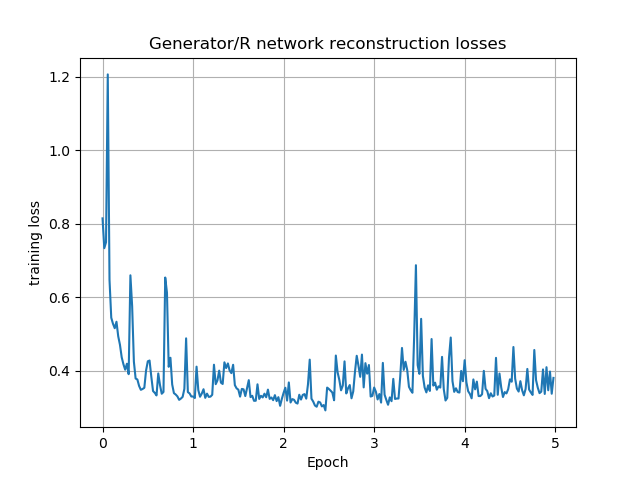
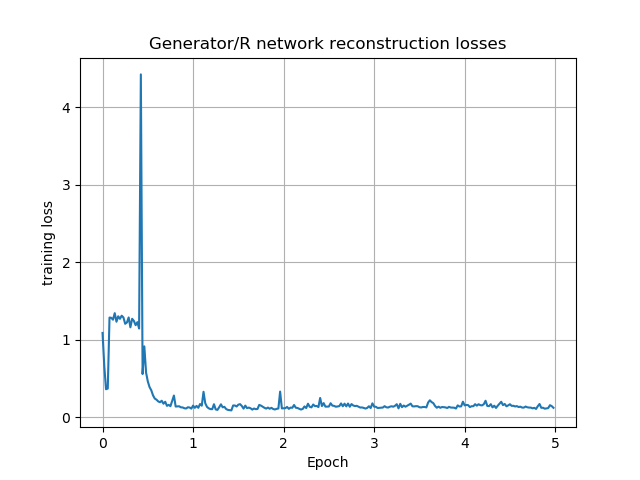
add licence, train target- clean image

diff --git a/models.py b/models.py
@@ -239,9 +239,11 @@ class ALOCC_Model():
                 if self.dataset_name == 'mnist':
                     batch = self.data[idx * batch_size:(idx + 1) * batch_size]
                     batch_noise = sample_w_noise[idx * batch_size:(idx + 1) * batch_size]
+                    batch_clean = self.data[idx * batch_size:(idx + 1) * batch_size]
                 # Turn batch images data to float32 type.
                 batch_images = np.array(batch).astype(np.float32)
                 batch_noise_images = np.array(batch_noise).astype(np.float32)
+                batch_clean_images = np.array(batch_clean).astype(np.float32)
                 if self.dataset_name == 'mnist':
                     batch_fake_images = self.generator.predict(batch_noise_images)
                     # Update D network, minimize real images inputs->D-> ones, noisy z->R->D->zeros loss.
@@ -249,8 +251,8 @@ class ALOCC_Model():
                     d_loss_fake = self.discriminator.train_on_batch(batch_fake_images, zeros)
 
                     # Update R network twice, minimize noisy z->R->D->ones and reconstruction loss.
-                    self.adversarial_model.train_on_batch(batch_noise_images, [batch_noise_images, ones])
-                    g_loss = self.adversarial_model.train_on_batch(batch_noise_images, [batch_noise_images, ones])    
+                    self.adversarial_model.train_on_batch(batch_noise_images, [batch_clean_images, ones])
+                    g_loss = self.adversarial_model.train_on_batch(batch_noise_images, [batch_clean_images, ones])    
                     plot_epochs.append(epoch+idx/batch_idxs)
                     plot_g_recon_losses.append(g_loss[1])
                 counter += 1
